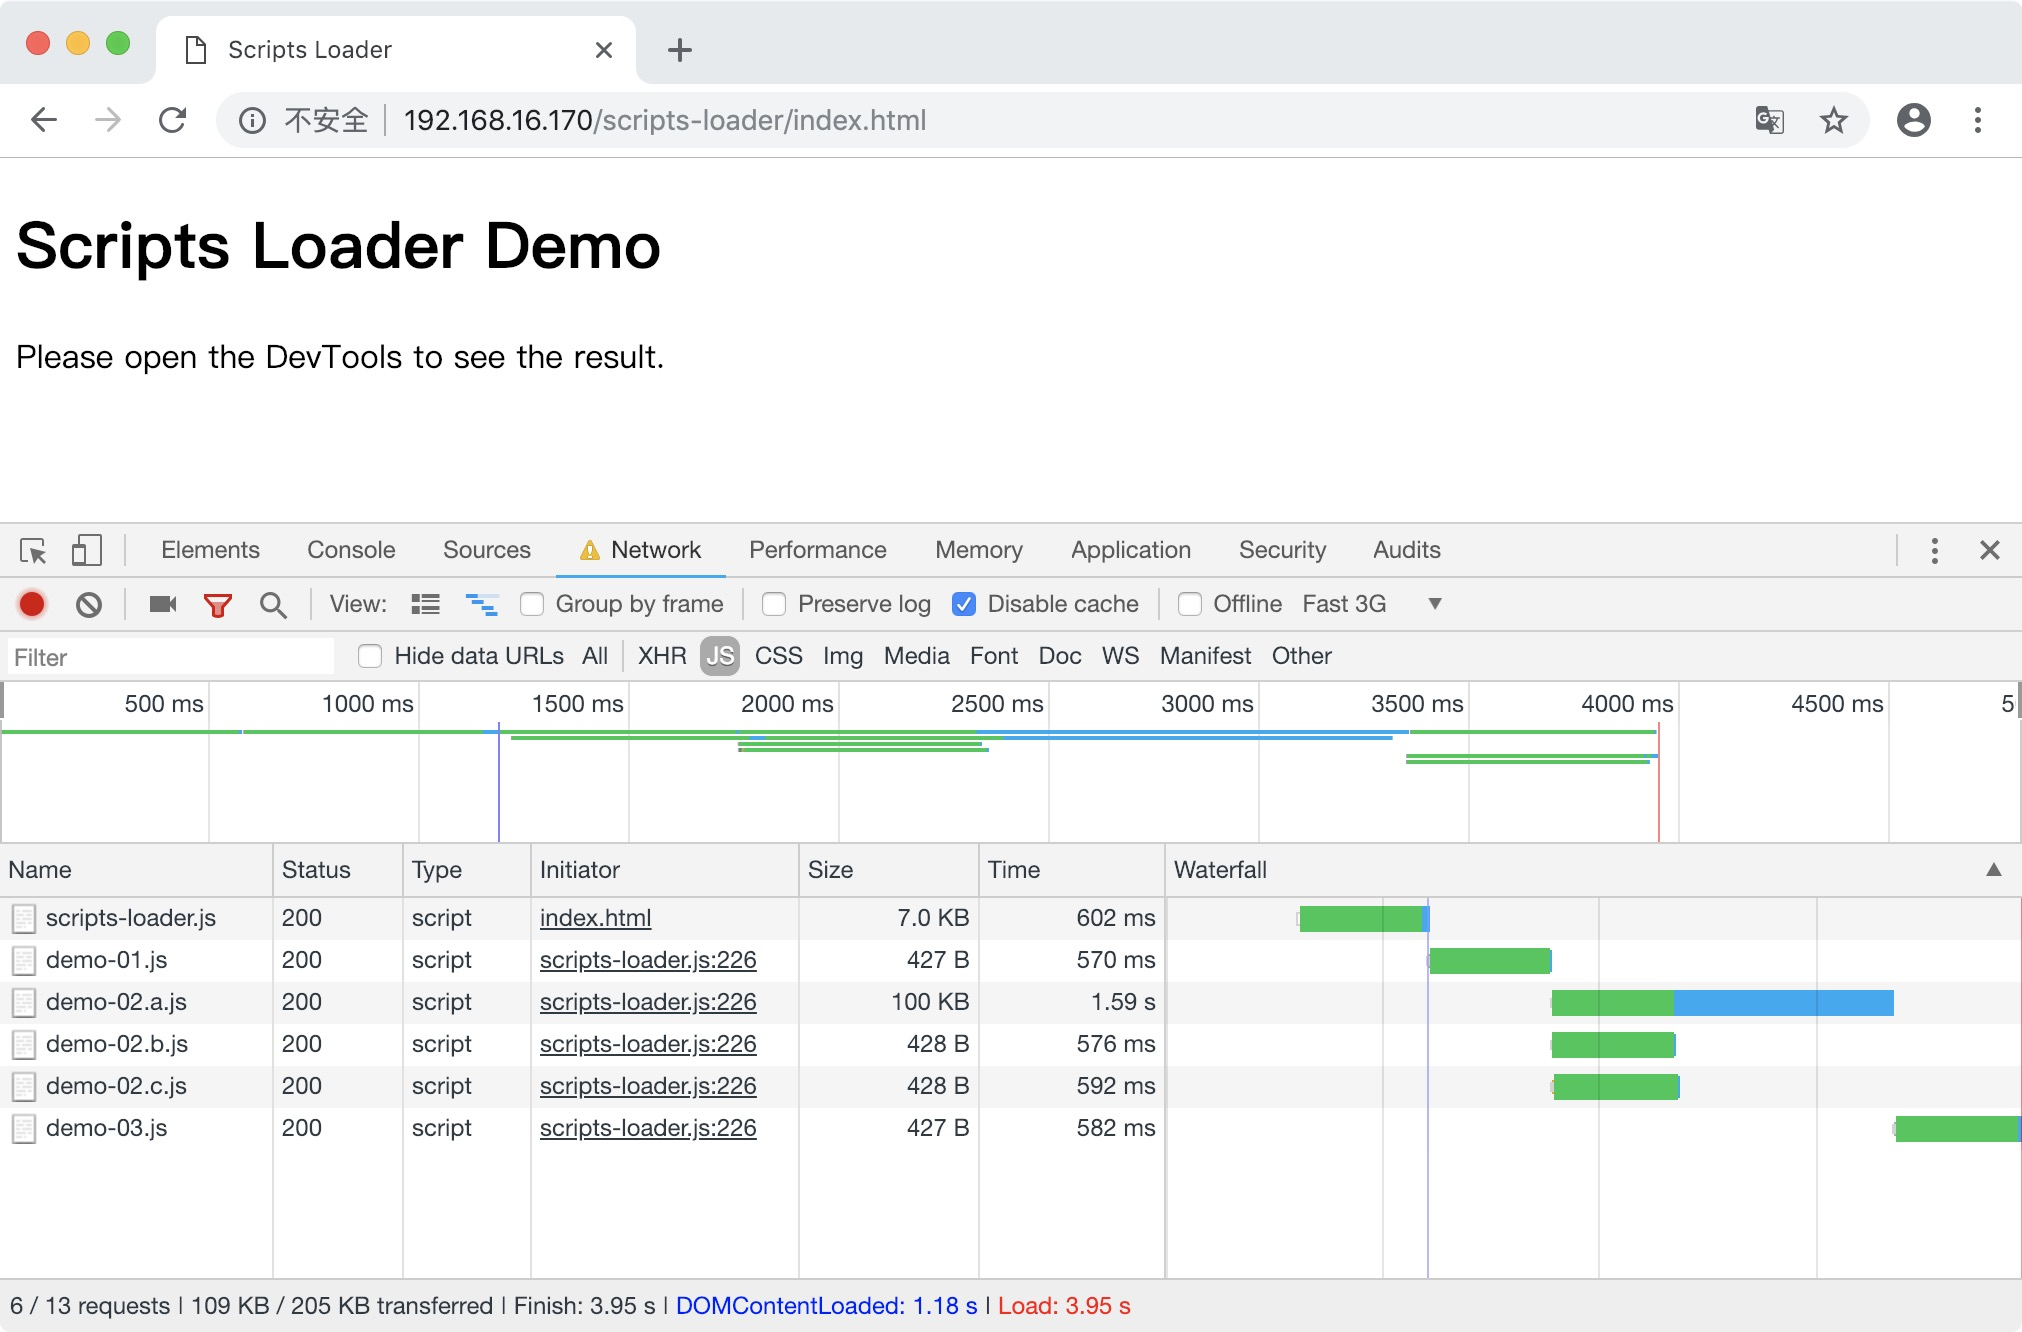
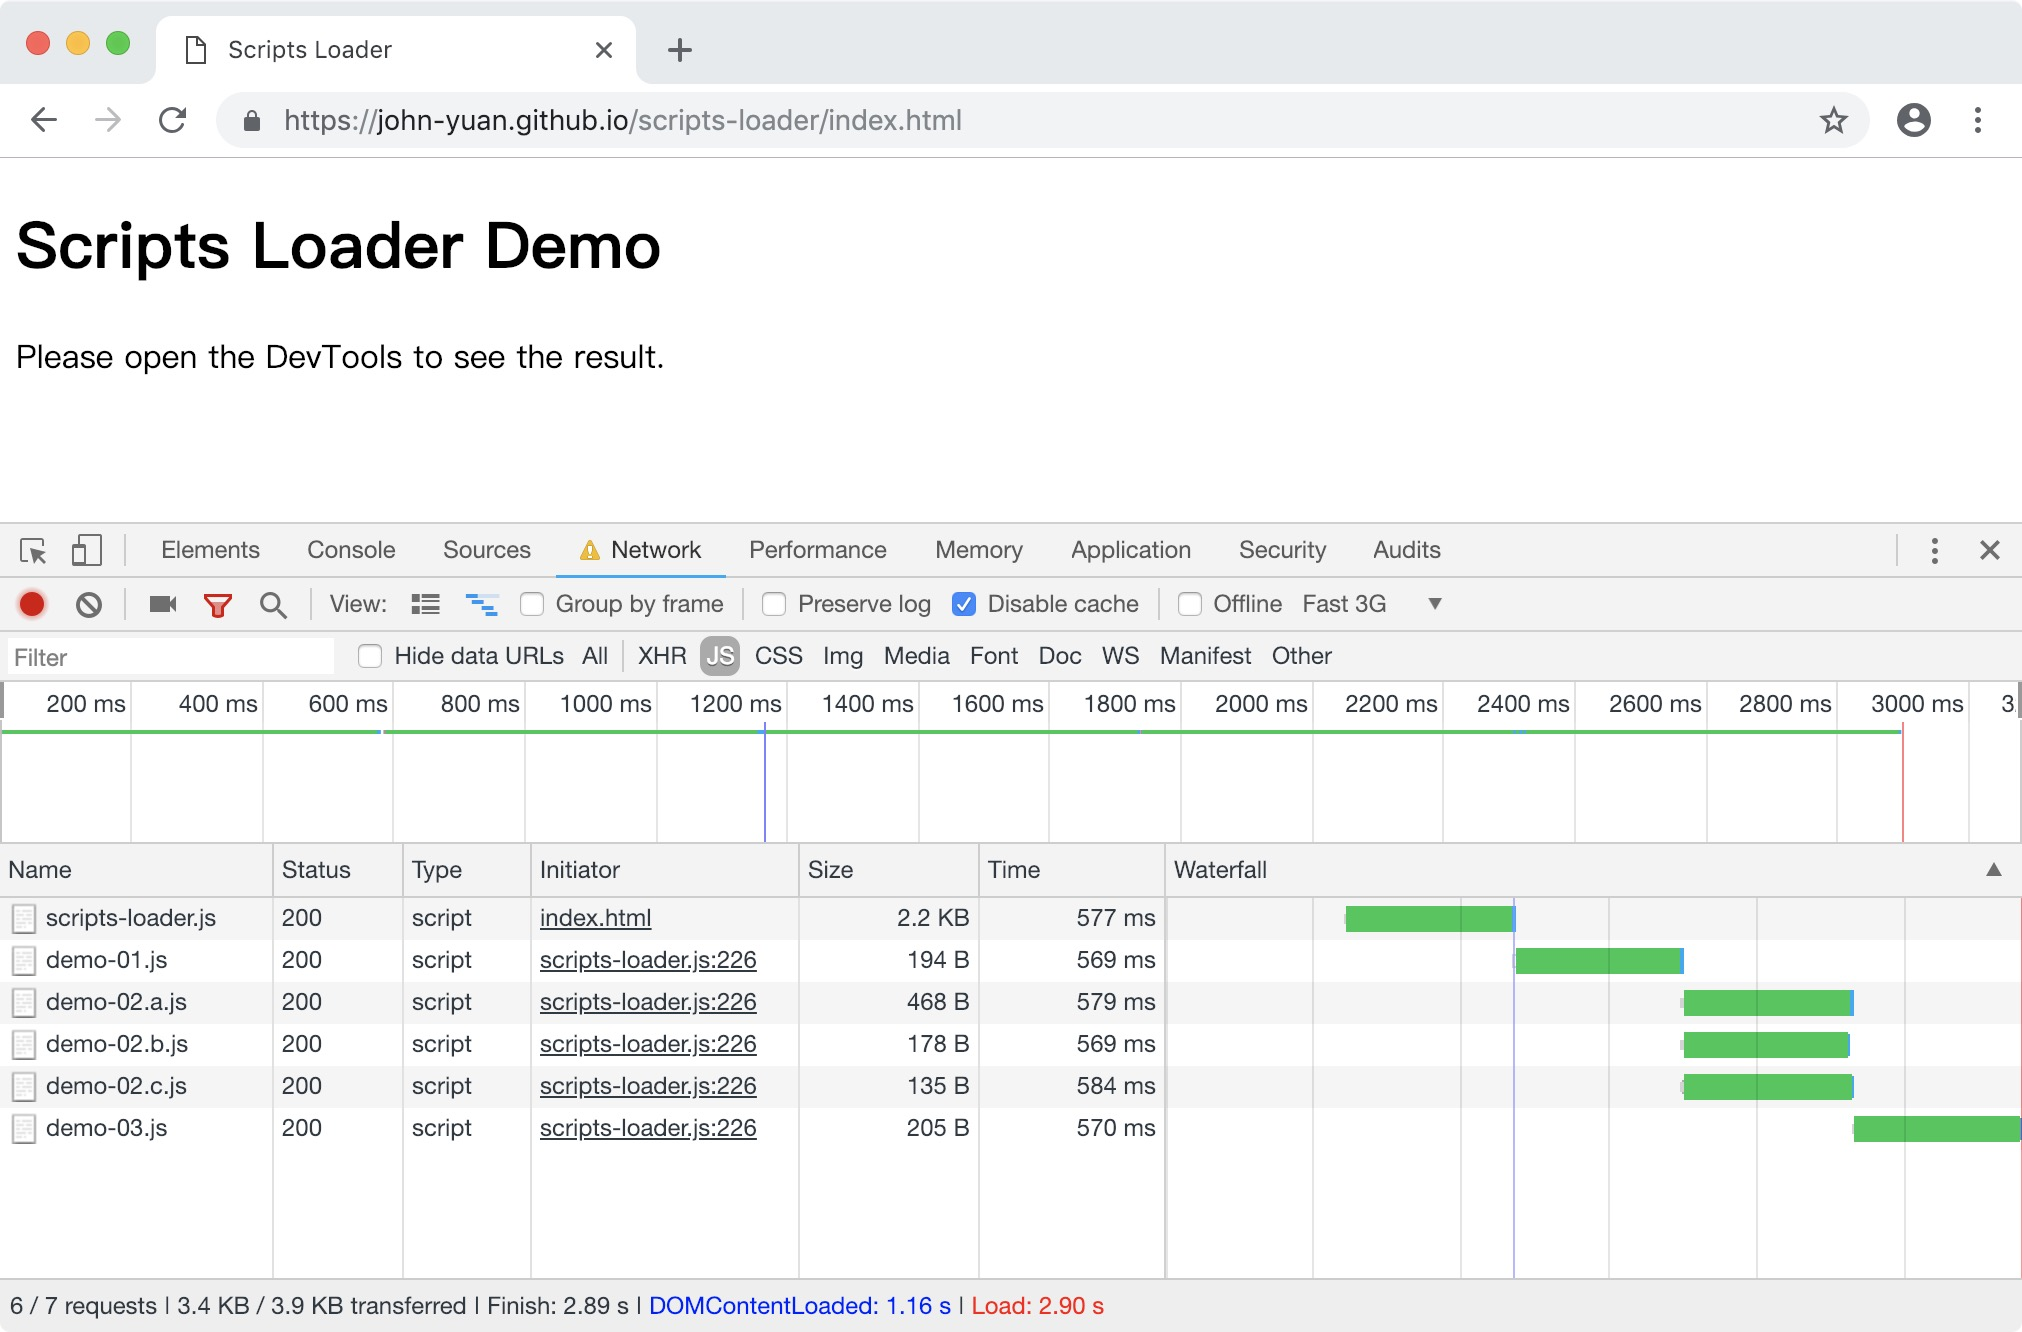
add demo page link and update screenshot

diff --git a/README.md b/README.md
@@ -86,7 +86,7 @@ ScriptLoader.load(urlPriorityMap);
 ScriptsLoader.prototype.start(onfinish);
 ```
 
-以下为一个示例，你可以 clone 本项目，访问 index.html，然后打开控制台查看效果。
+以下是一个示例。你可以访问这个[演示页面](https://john-yuan.github.io/scripts-loader/index.html "演示页面")，然后打开控制台，切换至 Network 选项卡查看加载效果。
 
 ```html
 <script src="./scripts-loader.js"></script>
